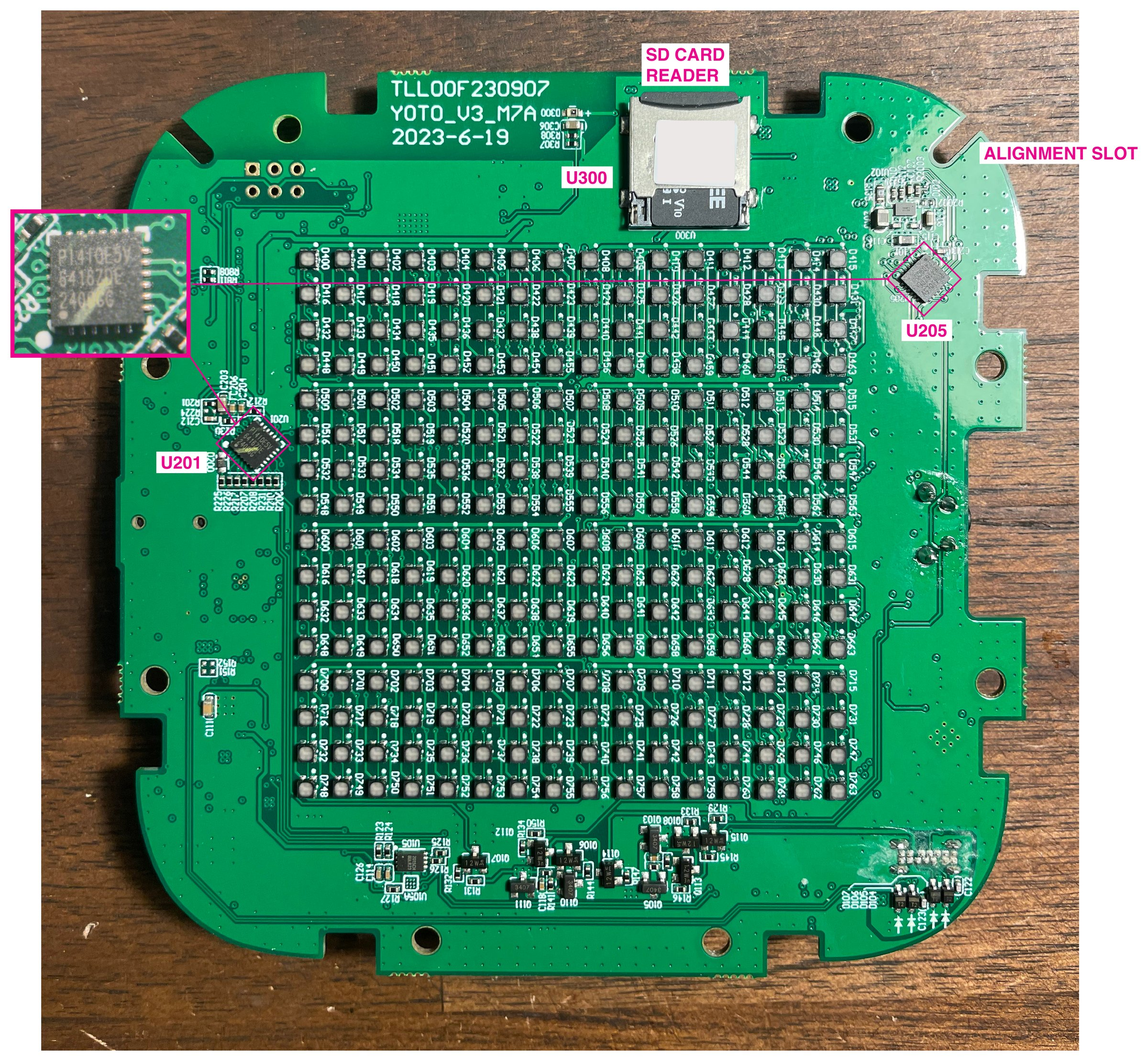
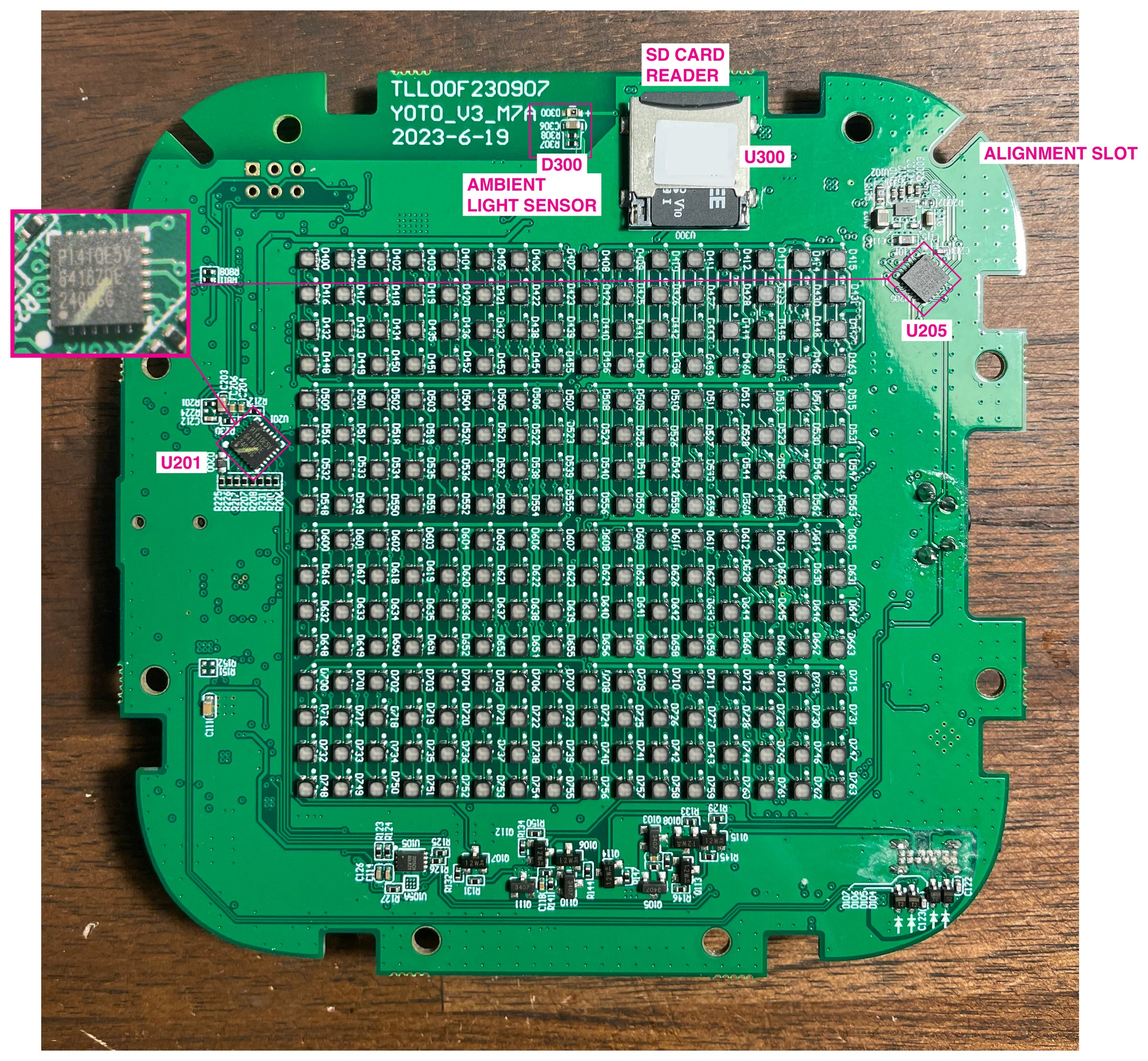
Update photos: label D300 and frame notches, fix U300 callout
Claude-Session: https://claude.ai/code/session_01SJbi6zgMHEQ4oFM7vpy6os

Changed region(s): [[0.4062, 0.0933, 0.5312, 0.2178], [0.625, 0.1244, 0.6875, 0.1555]]

diff --git a/docs/disassembly.md b/docs/disassembly.md
@@ -9,6 +9,8 @@ Everything inside connects by plug-in cables, so no soldering is needed to open 
 1. Use a spudger to gently pry the diffuser screen on its inside edge.
 2. Work slowly around the frame until the entire screen comes loose.
 
+Notches around the LED channel frame hold the screen's clips, and one opening near the SD card reader is the window for the ambient light sensor. Photo 2 in the Board section marks them.
+
 ## Board
 
 ![The eight screws, and the board partly separated from the enclosure](../photos/02-screws-and-board.jpg)

diff --git a/photos/README.md b/photos/README.md
@@ -14,4 +14,4 @@ All photos and annotations by Zack, CC BY 4.0.
 | `08-inside-enclosure.jpg` | NFC antenna, Qi charger, battery, speakers, antenna routing |
 | `09-programming-header-detail.jpg` | Header P200 and test points |
 
-The code label on the SD slot and the data matrix on the ESP32 module are covered on purpose, since they may identify the individual unit.
+The code label on the SD slot and the data matrix codes on the ESP32 module and U302 are covered on purpose, since they may identify the individual unit.
